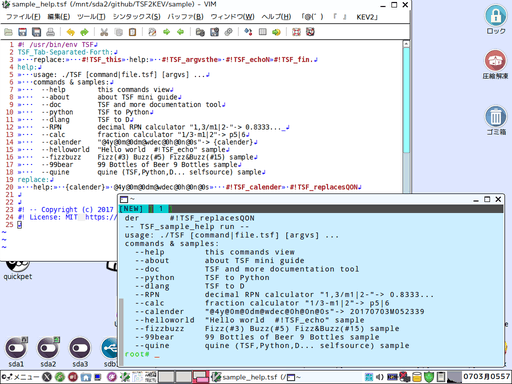
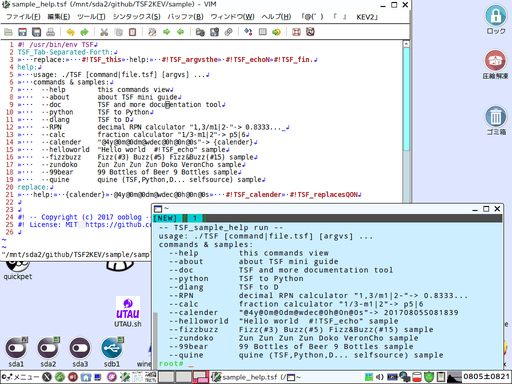
zundoko追加して「docs/TSF_512x384.png」を更新。「docs/index.html」(docs/TSFindex.tsf)に0の0乗はゼロ除算とみなすFAQ追加。

diff --git a/docs/index.html b/docs/index.html
@@ -19,7 +19,7 @@
  <section class="mainpages">
   <h1>「TSF2KEV」はプログラミング言語「TSF_Tab-Separated-Forth」のD言語とPythonによる実装です。</h1>
   <p>
-   version(branch):20170718T073839	modify:20170804F053753(執筆途中です)<br>
+   version(branch):20170718T073839	modify:20170805S081542(執筆途中です)<br>
   </p>  <ul>
    <li><a href="#License-0" title="⓪-0．ライセンスの解説など(index.html)">⓪-0．ライセンスの解説など(index.html)</a></li>
    <li><a href="#License-1" title="⓪-1．動作環境(index.html)">⓪-1．動作環境(index.html)</a></li>
@@ -29,7 +29,7 @@
    <li><a href="#grammar-1" title="①-1．TSF構文には括弧が存在しません。式というか電卓では括弧が使えます(index.html)">①-1．TSF構文には括弧が存在しません。式というか電卓では括弧が使えます(index.html)</a></li>
    <li><a href="#grammar-2" title="①-2．TSFには型どころか代入や束縛するような変数自体が存在しません。スコープもありません(index.html)">①-2．TSFには型どころか代入や束縛するような変数自体が存在しません。スコープもありません(index.html)</a></li>
    <li><a href="#grammar-3" title="①-3．TSFには関数の返り値やreturn用タプル構造体を用意するなどの概念もありません(index.html)">①-3．TSFには関数の返り値やreturn用タプル構造体を用意するなどの概念もありません(index.html)</a></li>
-   <li><a href="#grammar-4" title="①-4．TSFにはtry/catch文が存在しません。ゼロで割った場合などの時は「n|0」が発生します(index.html)">①-4．TSFにはtry/catch文が存在しません。ゼロで割った場合などの時は「n|0」が発生します(index.html)</a></li>
+   <li><a href="#grammar-4" title="①-4．TSFにはtry/catch文が存在しません。ゼロで割った場合などの時は分母ゼロ「n|0」が発生します(index.html)">①-4．TSFにはtry/catch文が存在しません。ゼロで割った場合などの時は分母ゼロ「n|0」が発生します(index.html)</a></li>
    <li><a href="#grammar-5" title="①-5．TSFにはfor文やwhile文が無いので再帰がループです(index.html)">①-5．TSFにはfor文やwhile文が無いので再帰がループです(index.html)</a></li>
    <li><a href="#grammar-6" title="①-6．TSFにはif/else文やswitch/case文が無いので分岐は式(比較演算子)などを用います(index.html)">①-6．TSFにはif/else文やswitch/case文が無いので分岐は式(比較演算子)などを用います(index.html)</a></li>
    <li><a href="#grammar-7" title="①-7．スタック代名詞4つの「th」this,that,the,theyとハウリングについて(index.html)">①-7．スタック代名詞4つの「th」this,that,the,theyとハウリングについて(index.html)</a></li>
@@ -182,7 +182,7 @@
  <section>
   <h2 id="grammar-2">①-2．TSFには型どころか代入や束縛するような変数自体が存在しません。スコープもありません(index.html)</h2>
   <p>
-   TSFは文字列リストを格納する連想配列(デッキ)でメモリを管理する形になるので、整数も小数も分数もbool値も文字列(カード)になります。<br>
+   TSFは文字列リストを格納する連想配列(デッキ)で管理する形になるので、整数も小数も分数も分母ゼロ「n|0」も文字列(カード)になります。<br>
    #!関数カード(「#!TSF_calc」「#!TSF_RPN」など)の演算結果をthatスタックに積み上げるそれを変数に代入と呼ぶかは微妙です。<br>
    「#!TSF_calc」でスタックをリスト(配列)に見立てる場合には「#!TSF_join[]」を経由せずに式に組み込む事は可能です。<br>
   </p>
@@ -201,16 +201,23 @@
   </p>
  </section>
  <section>
-  <h2 id="grammar-4">①-4．TSFにはtry/catch文が存在しません。ゼロで割った場合などの時は「n|0」が発生します(index.html)</h2>
+  <h2 id="grammar-4">①-4．TSFにはtry/catch文が存在しません。ゼロで割った場合などの時は分母ゼロ「n|0」が発生します(index.html)</h2>
   <p>
    TSFの実装ミスか何かでD言語やPythonレベルのエラーは起こりうると思いますが、TSFの#関数カード自体にエラーコードの概念は基本的にはありません。<br>
    例えば「#!TSF_readtext」でファイルの読込に失敗しても、文字列長0のファイルを読み込んだ扱いになります。<br>
-   「#!TSF_calc」や「#!TSF_RPN」でゼロで割るような事が発生した場合、「n|0」が「リターン」されるだけです。「n|0」の解釈は#関数カード毎の判断によります。<br>
-   例えば「n|0」を「#!TSF_echoN」に渡す場合、0行出力の扱いになりますが、「n|0」をゼロとみなしてるのではなく「数値ではない」と判断された流れです。<br>
-   thisスタックを数え終わるまたはスタック破棄および「#!TSF_countmax」で指定した上限(初期値256)などのオーバーフロー発生は単にスタックの終了扱いになるのでスタックを抜けます。<br>
-   存在しないスタックへの「#!TSF_this」例えば「#!exit: #!TSF_this」を行った場合もオーバーフロー発生ですが、飛び先ではなく現在のそタックでオーバーフロー、すなわちスタックの終了扱いになります。<br>
-   存在しないスタックのpeekや0枚スタックへのpullその他「ドロー」などのアンダーフローでも長さ0の文字列を受けとるだけでエラーは回避されるはずです。<br>
-   つまり、プログラムが止まるような構文エラーや演算エラーそのものが発生しない以上、catchする事ができないのでcatch構文もありません。<br>
+  </p>
+  <p>
+   「#!TSF_calc」や「#!TSF_RPN」でゼロで割るような事が発生した場合、分母ゼロ「n|0」が「リターン」されるだけです。<br>
+   分母ゼロ「n|0」を例えば「#!TSF_echoN」に渡す場合、0行出力の扱いになりますが、「n|0」をゼロとみなしてるのではなく「数値ではない」と判断された流れです。<br>
+   分母ゼロ「n|0」がどう解釈されるかは#!関数カード毎の判断、関数が何をするのかによります。<br>
+  </p>
+  <p>
+   存在しないスタックへの「#!TSF_this」例えば「#!exit: #!TSF_this」を行った場合やthisスタックオーバーフローはスタック終了で抜ける扱いになります。<br>
+   存在しないスタックへのpeekや0枚スタックへのpullその他thatスタックが空の状態でドローなどでアンダーフロー発生でも長さ0の文字列を受けとるだけです。<br>
+   存在しないスタックへのpokeやpushも何もしませんが例外的にFpushだけはスタックを新規生成してカードを格納します。<br>
+  </p>
+  <p>
+   つまり、プログラムが止まるような構文エラーや演算エラーそのものを想定しない以上、catchする事ができないのでcatch構文もありません。<br>
   </p>
  </section>
  <section>
@@ -224,7 +231,11 @@
  <section>
   <h2 id="grammar-6">①-6．TSFにはif/else文やswitch/case文が無いので分岐は式(比較演算子)などを用います(index.html)</h2>
   <p>
-  単純な分岐なら「0Z~True:~False: #!TSF_calc #!TSF_this」のような感じで「#!TSF_calc」の比較演算子の計算結果にスタック名を選択する荒技があります(「#!TSF_RPN」では使用不可)。<br>
+  単純な分岐なら「2-1Z~True:~False: #!TSF_calc #!TSF_this」のような感じで「#!TSF_calc」の比較演算子の計算結果にスタック名を選択する荒技があります(「#!TSF_RPN」では式中でのスタック名は使用不可)。<br>
+  TSFには等号・不等号の演算子は存在しません(等号と紛らわしい代入演算子も存在しません)。<br>
+  「2=1~True:~False:」(2と1は等しいか否か)ではなく「2-1Z~True:~False:」(2引く1はゼロか否か)であることに留意してください。
+  </p>
+  <p>
   case文の真似をする場合「switch cases: funcs: #!TSF_casesQON #!TSF_this」のような感じで「#!TSF_casesQON」などを用いてスタック名を選択する方法もあります。<br>
   他にも「funcs: [cases:0] #!TSF_calc #!TSF_peekMthe #!TSF_this」のような感じでpeek系の関数を用いてスタック名を選択する方法もあります。<br>
   </p>
@@ -374,6 +385,7 @@
    <dl><dt>void TSF_sample_calcJA()</dt><dd>「sample_calc.tsf」コマンド版「TSF --calc [一割る三引くマイナス二分の一]」。<br>中置記法による括弧を用いる電卓。結果は漢数字(〇一二三四五六七八九の表示はアラビア数字も用いる)。<br></dd></dl>
    <dl><dt>void TSF_sample_calender()</dt><dd>「sample_calender.tsf」コマンド版「TSF --calender」。<br>現在時刻を「@4y@0m@0dm@wdec@0h@0n@0s」形式で表示(@wdecは曜日MTWRFSU表記)。<br></dd></dl>
    <dl><dt>void TSF_sample_FizzBuzz()</dt><dd>「sample_fizzbuzz.tsf」コマンド版「TSF --fizzbuzz [20]」。初期値は20。<br>3の倍数の時はFizz、5の倍数の時はBuzzを表示する。<br></dd></dl>
+   <dl><dt>void TSF_sample_zundoko()</dt><dd>「sample_zundoko.tsf」コマンド版「TSF --zundoko [4]」。<br>「zun zun zun zun doko」になるまで「zun」と「doko」をランダム表示。<br></dd></dl>
    <dl><dt>void TSF_sample_99beer()</dt><dd>「sample_99beer.tsf」コマンド版「TSF --99bear [9]」。<br>99 Bottles of Beer(http://99-bottles-of-beer.net/lyrics.html)を出力する。長いので初期値は9に設定。</dd></dl>
    <dl><dt>void TSF_sample_quine()</dt><dd>「sample_quine.tsf」コマンド版「TSF --quine」。<br>「sample_quine.tsf」は「sample_quine.tsf」自身を出力する。<br>同様に「trans_quine.d」の時は「trans_quine.d」、「trans_quine.py」の時は「trans_quine.py」を出力する。<br>コマンド「TSF --quine」時も「sample_quine.tsf」を出力。<br></dd></dl>
    <dl><dt>void main(string[] sys_argvs)</dt><dd>D言語のmain関数。ここでは「TSF --dlang」「TSF --python」コマンドの解説。<br>「TSF --dlang helloworld.d helloworld.d」「TSF --python helloworld.tsf helloworld.py」のようにTSFをD言語やPythonに変換した風(インタプリタを呼び出す形)にすることができる。<br>D言語の場合「TSF_DMDcompile.sh helloworld.d」で実行バイナリも作成可能。<br></dd></dl>
@@ -516,6 +528,15 @@
   </dt><dd>
    Ａ．TSFには中置記法や括弧が使用可能なcalcがあります。一般的なForthの演算子ワード「+」「-」「*」「/」ようなカードは存在しません。<br>
    　速度優勢で小数計算を用いるRPN、精度優先で桁数制限の無い分数計算を用いるcalc。状況に応じて「電卓」を使い分ける二刀流です。<br>
+  </dd></dl>
+  <dl><dt>
+   Ｑ．0の0乗も0に何を掛けても0なのだから0ではないのか？<br>
+   Ｑ．0の0乗であっても0乗は常に1ではないのか？<br>
+  </dt><dd>
+   Ａ．0の0乗はゼロ除算0÷0だから分母ゼロ「n|0」です。少なくともTSFでは0で割る計算は分母ゼロ「n|0」です。<br>
+   　例えばx<sup>2</sup>－x<sup>2</sup>は(x＋x)(x－x)やx(x-x)に因数分解できる。<br>
+   　式(x＋x)(x－x)=x(x-x)の両辺を(x-x)で割ると(x＋x)=xすなわち2x=1x。両辺を再度xで割ると2=1。<br>
+   　極限が1になるとか言われてもプログラミングで2-1と1-1が同じになるような理屈は困るわけです。<br>
   </dd></dl>
   <dl><dt>
    Ｑ．TSFで作ったプログラムを実行ファイルにできますか？<br>

diff --git a/docs/forth.html b/docs/forth.html
@@ -19,7 +19,7 @@
  <section class="mainpages">
   <h1>「TSF2KEV」はプログラミング言語「TSF_Tab-Separated-Forth」のD言語とPythonによる実装です。</h1>
   <p>
-   version(branch):20170718T073839	modify:20170804F053753(執筆途中です)<br>
+   version(branch):20170718T073839	modify:20170805S081542(執筆途中です)<br>
   </p>  <ul>
    <li><a href="index.html#License-0" title="⓪-0．ライセンスの解説など(index.html)">⓪-0．ライセンスの解説など(index.html)</a></li>
    <li><a href="index.html#License-1" title="⓪-1．動作環境(index.html)">⓪-1．動作環境(index.html)</a></li>
@@ -29,7 +29,7 @@
    <li><a href="index.html#grammar-1" title="①-1．TSF構文には括弧が存在しません。式というか電卓では括弧が使えます(index.html)">①-1．TSF構文には括弧が存在しません。式というか電卓では括弧が使えます(index.html)</a></li>
    <li><a href="index.html#grammar-2" title="①-2．TSFには型どころか代入や束縛するような変数自体が存在しません。スコープもありません(index.html)">①-2．TSFには型どころか代入や束縛するような変数自体が存在しません。スコープもありません(index.html)</a></li>
    <li><a href="index.html#grammar-3" title="①-3．TSFには関数の返り値やreturn用タプル構造体を用意するなどの概念もありません(index.html)">①-3．TSFには関数の返り値やreturn用タプル構造体を用意するなどの概念もありません(index.html)</a></li>
-   <li><a href="index.html#grammar-4" title="①-4．TSFにはtry/catch文が存在しません。ゼロで割った場合などの時は「n|0」が発生します(index.html)">①-4．TSFにはtry/catch文が存在しません。ゼロで割った場合などの時は「n|0」が発生します(index.html)</a></li>
+   <li><a href="index.html#grammar-4" title="①-4．TSFにはtry/catch文が存在しません。ゼロで割った場合などの時は分母ゼロ「n|0」が発生します(index.html)">①-4．TSFにはtry/catch文が存在しません。ゼロで割った場合などの時は分母ゼロ「n|0」が発生します(index.html)</a></li>
    <li><a href="index.html#grammar-5" title="①-5．TSFにはfor文やwhile文が無いので再帰がループです(index.html)">①-5．TSFにはfor文やwhile文が無いので再帰がループです(index.html)</a></li>
    <li><a href="index.html#grammar-6" title="①-6．TSFにはif/else文やswitch/case文が無いので分岐は式(比較演算子)などを用います(index.html)">①-6．TSFにはif/else文やswitch/case文が無いので分岐は式(比較演算子)などを用います(index.html)</a></li>
    <li><a href="index.html#grammar-7" title="①-7．スタック代名詞4つの「th」this,that,the,theyとハウリングについて(index.html)">①-7．スタック代名詞4つの「th」this,that,the,theyとハウリングについて(index.html)</a></li>

diff --git a/docs/404.html b/docs/404.html
@@ -19,7 +19,7 @@
  <section class="mainpages">
   <h1>TSF2KEVサイトマップ(404)</h1>
   <p>
-   version(branch):20170718T073839	modify:20170804F053753(執筆途中です)<br>
+   version(branch):20170718T073839	modify:20170805S081542(執筆途中です)<br>
   </p>  <ul>
    <li><a href="index.html"><img src="TSF2KEV_icon.png" width="48" height="48" alt="TSF2KEV" title="「TSF2KEV」はプログラミング言語「TSF_Tab-Separated-Forth」のD言語とPythonによる実装です。">「TSF2KEV」はプログラミング言語「TSF_Tab-Separated-Forth」のD言語とPythonによる実装です。</a></li>
    <li><a href="TSFdoc.html"><img src="TSFdoc_icon.png" width="48" height="48" alt="TSFdoc" title="「TSFdoc」は「TSF2KEV」を用いたドキュメントジェネレーターです。">「TSFdoc」は「TSF2KEV」を用いたドキュメントジェネレーターです。</a></li>

diff --git a/docs/KEV2.html b/docs/KEV2.html
@@ -19,7 +19,7 @@
  <section class="mainpages">
   <h1>「KEV」はVimスクリプトでできてる漢字直接入力です(単漢字検索含む)。</h1>
   <p>
-   version(branch):20170718T073839	modify:20170804F053753(執筆途中です)<br>
+   version(branch):20170718T073839	modify:20170805S081542(執筆途中です)<br>
   </p>  <ul>
    <li><a href="#License-0" title="⓪-0．ライセンスの解説など">⓪-0．ライセンスの解説など</a></li>
    <li><a href="#License-1" title="⓪-1．動作環境">⓪-1．動作環境</a></li>

diff --git a/docs/TSFdoc.html b/docs/TSFdoc.html
@@ -19,7 +19,7 @@
  <section class="mainpages">
   <h1>「TSFdoc」は「TSF2KEV」を用いたドキュメントジェネレーターです。</h1>
   <p>
-   version(branch):20170718T073839	modify:20170804F053753(執筆途中です)<br>
+   version(branch):20170718T073839	modify:20170805S081542(執筆途中です)<br>
   </p>  <ul>
    <li><a href="#License-0" title="⓪-0．ライセンスの解説など">⓪-0．ライセンスの解説など</a></li>
    <li><a href="#License-1" title="⓪-1．動作環境">⓪-1．動作環境</a></li>

diff --git a/TSF.py b/TSF.py
@@ -184,7 +184,7 @@ def TSF_sample_zundoko():    #TSFdoc:「sample_zundoko.tsf」コマンド版「T
     TSF_Forth_setTSF("ZDreset:","\t".join([
         "0","ZDcount:","#!TSF_pokeFthe","ZunDoko:","#!TSF_this"]),'T')
     TSF_Forth_setTSF("ZunDoko:","\t".join([
-        "ZDjump:","#!TSF_peekAthe","#!TSF_this","[ZDcount:0]O~ZunDoko:~#exit:","#!TSF_calc","#!TSF_this"]),'T')
+        "ZDjump:","#!TSF_peekAthe","#!TSF_this","[ZDcount:0]O~ZunDoko:~#!exit:","#!TSF_calc","#!TSF_this"]),'T')
     TSF_Forth_setTSF("ZDjump:","\t".join([
         "Zun:","Doko:"]),'T')
     TSF_Forth_setTSF("Zun:","\t".join([
